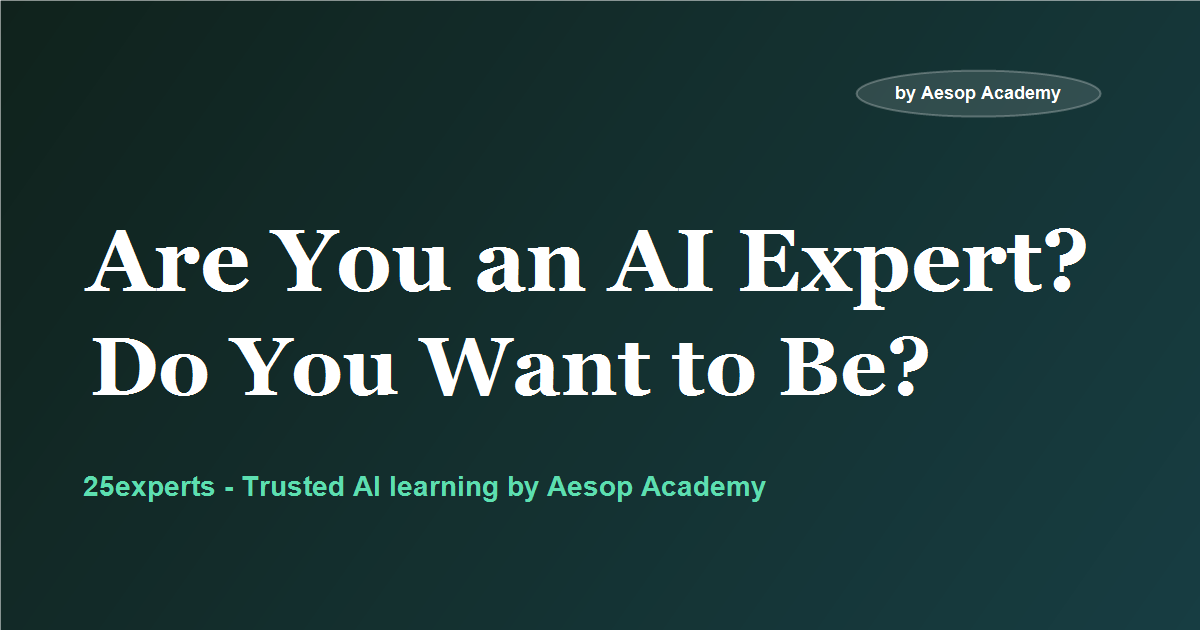
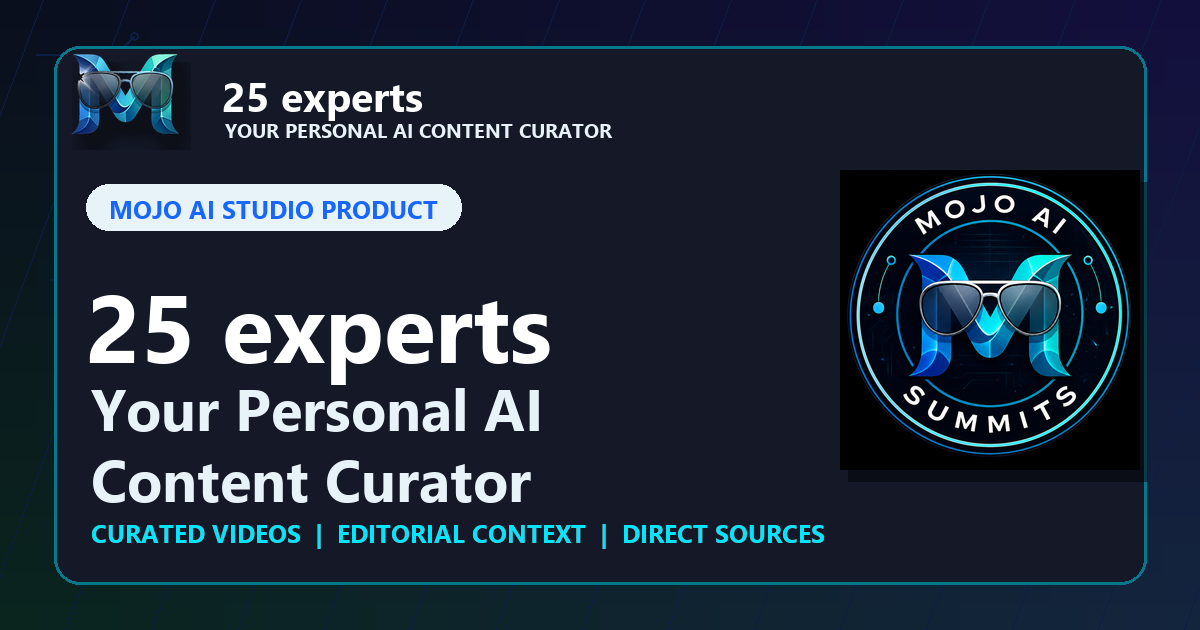
Set selected Mojo OG image

diff --git a/index-domain-floating-preview.html b/index-domain-floating-preview.html
@@ -21,7 +21,7 @@
   <meta name="robots" content="index, follow">
   <meta property="og:type" content="website">
   <meta property="og:site_name" content="25experts by Mojo AI Studio">
-  <meta property="og:title" content="Are You an AI Expert? Do You Want to Be?">
+  <meta property="og:title" content="25 experts, Your Personal AI Content Curator">
   <meta property="og:description" content="Trusted AI learning, expert access, and an AI literacy focus built for global reach.">
   <meta property="og:url" content="https://25experts.com/">
   <meta property="og:image" content="https://25experts.com/assets/og-25experts.png">
@@ -29,12 +29,12 @@
   <meta property="og:image:type" content="image/png">
   <meta property="og:image:width" content="1200">
   <meta property="og:image:height" content="630">
-  <meta property="og:image:alt" content="Are You an AI Expert? Do You Want to Be? 25experts by Mojo AI Studio">
+  <meta property="og:image:alt" content="25 experts, Your Personal AI Content Curator by Mojo AI Studio">
   <meta name="twitter:card" content="summary_large_image">
-  <meta name="twitter:title" content="Are You an AI Expert? Do You Want to Be?">
+  <meta name="twitter:title" content="25 experts, Your Personal AI Content Curator">
   <meta name="twitter:description" content="Trusted AI learning, expert access, and an AI literacy focus built for global reach.">
   <meta name="twitter:image" content="https://25experts.com/assets/og-25experts.png">
-  <meta name="twitter:image:alt" content="Are You an AI Expert? Do You Want to Be? 25experts by Mojo AI Studio">
+  <meta name="twitter:image:alt" content="25 experts, Your Personal AI Content Curator by Mojo AI Studio">
   <script type="application/ld+json">
     {
         "@type":  "WebPage",

diff --git a/subscriber.html b/subscriber.html
@@ -29,12 +29,12 @@
   <meta property="og:image:type" content="image/png">
   <meta property="og:image:width" content="1200">
   <meta property="og:image:height" content="630">
-  <meta property="og:image:alt" content="Are You an AI Expert? Do You Want to Be? 25experts by Mojo AI Studio">
+  <meta property="og:image:alt" content="25 experts, Your Personal AI Content Curator by Mojo AI Studio">
   <meta name="twitter:card" content="summary_large_image">
   <meta name="twitter:title" content="Learn AI from People Who Actually Know It | 25experts">
   <meta name="twitter:description" content="Follow trusted AI experts for $100 per expert and get videos, blogs, workshops, forums, and paid member access to live events and AI companions.">
   <meta name="twitter:image" content="https://25experts.com/assets/og-25experts.png">
-  <meta name="twitter:image:alt" content="Are You an AI Expert? Do You Want to Be? 25experts by Mojo AI Studio">
+  <meta name="twitter:image:alt" content="25 experts, Your Personal AI Content Curator by Mojo AI Studio">
   <script type="application/ld+json">
     {
         "@type":  "WebPage",

diff --git a/expertsrecognition.html b/expertsrecognition.html
@@ -26,12 +26,12 @@
   <meta property="og:image:type" content="image/png">
   <meta property="og:image:width" content="1200">
   <meta property="og:image:height" content="630">
-  <meta property="og:image:alt" content="Are You an AI Expert? Do You Want to Be? 25experts by Mojo AI Studio">
+  <meta property="og:image:alt" content="25 experts, Your Personal AI Content Curator by Mojo AI Studio">
   <meta name="twitter:card" content="summary_large_image">
   <meta name="twitter:title" content="Expert Recognition Program | 25experts">
   <meta name="twitter:description" content="Learn how expert recognition prioritizes quality evaluations, subscribed patrons, and increased marketing visibility for trusted AI creators.">
   <meta name="twitter:image" content="https://25experts.com/assets/og-25experts.png">
-  <meta name="twitter:image:alt" content="Are You an AI Expert? Do You Want to Be? 25experts by Mojo AI Studio">
+  <meta name="twitter:image:alt" content="25 experts, Your Personal AI Content Curator by Mojo AI Studio">
   <script type="application/ld+json">
     {
         "@type":  "WebPage",

diff --git a/communityrecognition.html b/communityrecognition.html
@@ -26,12 +26,12 @@
   <meta property="og:image:type" content="image/png">
   <meta property="og:image:width" content="1200">
   <meta property="og:image:height" content="630">
-  <meta property="og:image:alt" content="Are You an AI Expert? Do You Want to Be? 25experts by Mojo AI Studio">
+  <meta property="og:image:alt" content="25 experts, Your Personal AI Content Curator by Mojo AI Studio">
   <meta name="twitter:card" content="summary_large_image">
   <meta name="twitter:title" content="Community Recognition Program | 25experts">
   <meta name="twitter:description" content="Learn how 25experts recognizes patrons for capability, contribution, consistency, and community growth without rewarding empty attention.">
   <meta name="twitter:image" content="https://25experts.com/assets/og-25experts.png">
-  <meta name="twitter:image:alt" content="Are You an AI Expert? Do You Want to Be? 25experts by Mojo AI Studio">
+  <meta name="twitter:image:alt" content="25 experts, Your Personal AI Content Curator by Mojo AI Studio">
   <script type="application/ld+json">
     {
         "@type":  "WebPage",

diff --git a/sponsors.html b/sponsors.html
@@ -26,12 +26,12 @@
   <meta property="og:image:type" content="image/png">
   <meta property="og:image:width" content="1200">
   <meta property="og:image:height" content="630">
-  <meta property="og:image:alt" content="Are You an AI Expert? Do You Want to Be? 25experts by Mojo AI Studio">
+  <meta property="og:image:alt" content="25 experts, Your Personal AI Content Curator by Mojo AI Studio">
   <meta name="twitter:card" content="summary_large_image">
   <meta name="twitter:title" content="Sponsor 25experts | Mojo AI Studio">
   <meta name="twitter:description" content="Help Mojo AI Studio use 25experts to expand practical AI literacy through creator reach, sponsored access, and mission-led learning.">
   <meta name="twitter:image" content="https://25experts.com/assets/og-25experts.png">
-  <meta name="twitter:image:alt" content="Are You an AI Expert? Do You Want to Be? 25experts by Mojo AI Studio">
+  <meta name="twitter:image:alt" content="25 experts, Your Personal AI Content Curator by Mojo AI Studio">
   <script type="application/ld+json">
     {
       "@context": "https://schema.org",

diff --git a/donate.html b/donate.html
@@ -26,12 +26,12 @@
   <meta property="og:image:type" content="image/png">
   <meta property="og:image:width" content="1200">
   <meta property="og:image:height" content="630">
-  <meta property="og:image:alt" content="Are You an AI Expert? Do You Want to Be? 25experts by Mojo AI Studio">
+  <meta property="og:image:alt" content="25 experts, Your Personal AI Content Curator by Mojo AI Studio">
   <meta name="twitter:card" content="summary_large_image">
   <meta name="twitter:title" content="Donate | 25experts by Mojo AI Studio">
   <meta name="twitter:description" content="Donate to Mojo AI Studio to help more people access trusted AI learning through 25experts scholarships, workshops, and community support.">
   <meta name="twitter:image" content="https://25experts.com/assets/og-25experts.png">
-  <meta name="twitter:image:alt" content="Are You an AI Expert? Do You Want to Be? 25experts by Mojo AI Studio">
+  <meta name="twitter:image:alt" content="25 experts, Your Personal AI Content Curator by Mojo AI Studio">
   <script type="application/ld+json">
     {
         "@type":  "WebPage",

diff --git a/experts.html b/experts.html
@@ -29,12 +29,12 @@
   <meta property="og:image:type" content="image/png">
   <meta property="og:image:width" content="1200">
   <meta property="og:image:height" content="630">
-  <meta property="og:image:alt" content="Are You an AI Expert? Do You Want to Be? 25experts by Mojo AI Studio">
+  <meta property="og:image:alt" content="25 experts, Your Personal AI Content Curator by Mojo AI Studio">
   <meta name="twitter:card" content="summary_large_image">
   <meta name="twitter:title" content="Expert Partner Program | 25experts">
   <meta name="twitter:description" content="Join Mojo AI Studio&#39;s 25experts creator program to earn more from your AI audience while growing practical AI literacy worldwide.">
   <meta name="twitter:image" content="https://25experts.com/assets/og-25experts.png">
-  <meta name="twitter:image:alt" content="Are You an AI Expert? Do You Want to Be? 25experts by Mojo AI Studio">
+  <meta name="twitter:image:alt" content="25 experts, Your Personal AI Content Curator by Mojo AI Studio">
   <script type="application/ld+json">
     {
         "@type":  "WebPage",

diff --git a/leaderboards.html b/leaderboards.html
@@ -26,12 +26,12 @@
   <meta property="og:image:type" content="image/png">
   <meta property="og:image:width" content="1200">
   <meta property="og:image:height" content="630">
-  <meta property="og:image:alt" content="Are You an AI Expert? Do You Want to Be? 25experts by Mojo AI Studio">
+  <meta property="og:image:alt" content="25 experts, Your Personal AI Content Curator by Mojo AI Studio">
   <meta name="twitter:card" content="summary_large_image">
   <meta name="twitter:title" content="Leaderboards | 25experts">
   <meta name="twitter:description" content="See patron and expert leaderboards that recognize capability, contribution, consistency, community growth, and high-quality AI content.">
   <meta name="twitter:image" content="https://25experts.com/assets/og-25experts.png">
-  <meta name="twitter:image:alt" content="Are You an AI Expert? Do You Want to Be? 25experts by Mojo AI Studio">
+  <meta name="twitter:image:alt" content="25 experts, Your Personal AI Content Curator by Mojo AI Studio">
   <script type="application/ld+json">
     {
         "@type":  "WebPage",

diff --git a/expertapplication.html b/expertapplication.html
@@ -29,12 +29,12 @@
   <meta property="og:image:type" content="image/png">
   <meta property="og:image:width" content="1200">
   <meta property="og:image:height" content="630">
-  <meta property="og:image:alt" content="Are You an AI Expert? Do You Want to Be? 25experts by Mojo AI Studio">
+  <meta property="og:image:alt" content="25 experts, Your Personal AI Content Curator by Mojo AI Studio">
   <meta name="twitter:card" content="summary_large_image">
   <meta name="twitter:title" content="Expert Program Application | 25experts">
   <meta name="twitter:description" content="Apply to join the 25experts creator program and help Mojo AI Studio bring practical AI expertise to a global audience.">
   <meta name="twitter:image" content="https://25experts.com/assets/og-25experts.png">
-  <meta name="twitter:image:alt" content="Are You an AI Expert? Do You Want to Be? 25experts by Mojo AI Studio">
+  <meta name="twitter:image:alt" content="25 experts, Your Personal AI Content Curator by Mojo AI Studio">
   <script type="application/ld+json">
     {
         "@type":  "WebPage",

diff --git a/join.html b/join.html
@@ -29,12 +29,12 @@
   <meta property="og:image:type" content="image/png">
   <meta property="og:image:width" content="1200">
   <meta property="og:image:height" content="630">
-  <meta property="og:image:alt" content="Are You an AI Expert? Do You Want to Be? 25experts by Mojo AI Studio">
+  <meta property="og:image:alt" content="25 experts, Your Personal AI Content Curator by Mojo AI Studio">
   <meta name="twitter:card" content="summary_large_image">
   <meta name="twitter:title" content="Join Free | 25experts">
   <meta name="twitter:description" content="Join 25experts for free, explore expert AI content, and support Mojo AI Studio&#39;s AI literacy focus to expand practical AI literacy.">
   <meta name="twitter:image" content="https://25experts.com/assets/og-25experts.png">
-  <meta name="twitter:image:alt" content="Are You an AI Expert? Do You Want to Be? 25experts by Mojo AI Studio">
+  <meta name="twitter:image:alt" content="25 experts, Your Personal AI Content Curator by Mojo AI Studio">
   <script type="application/ld+json">
     {
         "@type":  "WebPage",

diff --git a/expertspromotion.html b/expertspromotion.html
@@ -29,12 +29,12 @@
   <meta property="og:image:type" content="image/png">
   <meta property="og:image:width" content="1200">
   <meta property="og:image:height" content="630">
-  <meta property="og:image:alt" content="Are You an AI Expert? Do You Want to Be? 25experts by Mojo AI Studio">
+  <meta property="og:image:alt" content="25 experts, Your Personal AI Content Curator by Mojo AI Studio">
   <meta name="twitter:card" content="summary_large_image">
   <meta name="twitter:title" content="Creator Advancement | 25experts">
   <meta name="twitter:description" content="See how 25experts advances creators through recognition, quality signals, audience growth, and mission-aligned promotion.">
   <meta name="twitter:image" content="https://25experts.com/assets/og-25experts.png">
-  <meta name="twitter:image:alt" content="Are You an AI Expert? Do You Want to Be? 25experts by Mojo AI Studio">
+  <meta name="twitter:image:alt" content="25 experts, Your Personal AI Content Curator by Mojo AI Studio">
   <script type="application/ld+json">
     {
         "@type":  "WebPage",

diff --git a/expertprofiles.html b/expertprofiles.html
@@ -26,12 +26,12 @@
   <meta property="og:image:type" content="image/png">
   <meta property="og:image:width" content="1200">
   <meta property="og:image:height" content="630">
-  <meta property="og:image:alt" content="Are You an AI Expert? Do You Want to Be? 25experts by Mojo AI Studio">
+  <meta property="og:image:alt" content="25 experts, Your Personal AI Content Curator by Mojo AI Studio">
   <meta name="twitter:card" content="summary_large_image">
   <meta name="twitter:title" content="Expert Profiles | 25experts">
   <meta name="twitter:description" content="Browse AI expert profiles, follow trusted creators, and discover their videos, blogs, workshops, and forum contributions.">
   <meta name="twitter:image" content="https://25experts.com/assets/og-25experts.png">
-  <meta name="twitter:image:alt" content="Are You an AI Expert? Do You Want to Be? 25experts by Mojo AI Studio">
+  <meta name="twitter:image:alt" content="25 experts, Your Personal AI Content Curator by Mojo AI Studio">
   <script type="application/ld+json">
     {
         "@type":  "WebPage",
